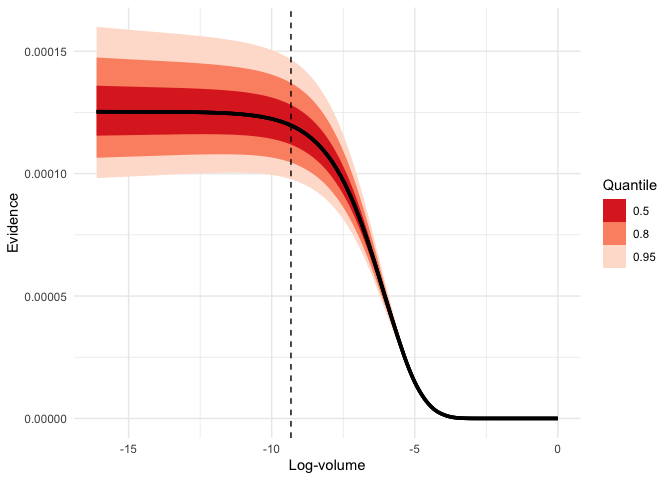
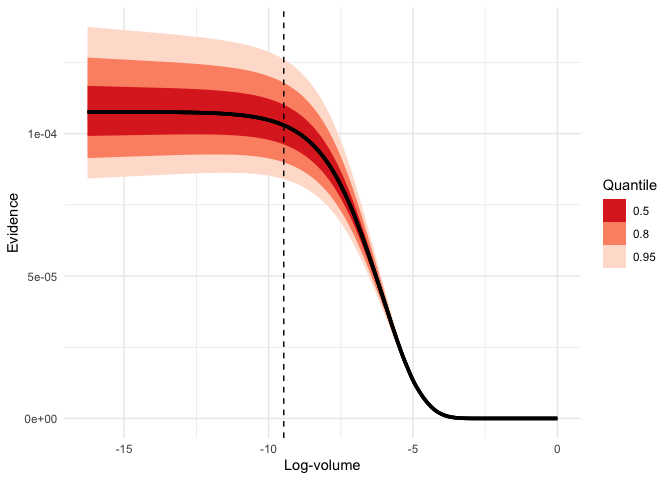
Add CRAN badge.

diff --git a/README.md b/README.md
@@ -8,7 +8,8 @@
 [![R-CMD-check](https://github.com/ropensci/ernest/actions/workflows/R-CMD-check.yaml/badge.svg)](https://github.com/ropensci/ernest/actions/workflows/R-CMD-check.yaml)
 [![codecov](https://codecov.io/gh/ropensci/ernest/graph/badge.svg?token=6HL8L046Y7)](https://app.codecov.io/gh/ropensci/ernest)
 [![](https://badges.ropensci.org/730_status.svg)](https://github.com/ropensci/software-review/issues/730)
-
+[![CRAN
+status](https://www.r-pkg.org/badges/version/ernest)](https://CRAN.R-project.org/package=ernest)
 <!-- badges: end -->
 
 **ernest** is a comprehensive toolkit for [nested
@@ -127,30 +128,30 @@ summary(run)
 #> Summary of nested sampling run:
 #> ── Run Information ─────────────────────────────────────────────────────────────
 #> * No. points: 500
-#> * Iterations: 4663
-#> * Likelihood evals.: 102134
-#> * Log-evidence: -8.9848 (± 0.1147)
-#> * Information: 4.824
+#> * Iterations: 4737
+#> * Likelihood evals.: 103830
+#> * Log-evidence: -9.1368 (± 0.115)
+#> * Information: 4.822
 #> ── Posterior Summary ───────────────────────────────────────────────────────────
 #> # A tibble: 3 × 6
-#>   variable     mean    sd   median   q15   q85
-#>   <chr>       <dbl> <dbl>    <dbl> <dbl> <dbl>
-#> 1 x         0.0179   2.74  0.00257 -1.82  1.93
-#> 2 y         0.00224  2.80  0.0106  -1.87  1.92
-#> 3 z        -0.0329   2.77 -0.00719 -1.91  1.96
+#>   variable   mean    sd    median   q15   q85
+#>   <chr>     <dbl> <dbl>     <dbl> <dbl> <dbl>
+#> 1 x        0.0233  2.76 -0.000841 -1.96  2.02
+#> 2 y        0.0254  2.78 -0.000344 -1.90  1.96
+#> 3 z        0.0110  2.79 -0.00460  -1.89  1.92
 #> ── Maximum Likelihood Estimate (MLE) ───────────────────────────────────────────
-#> * Log-likelihood: -2.6812
-#> * Original parameters: -0.013, 0.0448, and 0.0196
+#> * Log-likelihood: -2.6829
+#> * Original parameters: 0.0149, 0.0188, and -0.0715
 plot(run, which = "evidence")
 ```
 
-<img src="man/figures/README-unnamed-chunk-2-1.png" width="100%" />
+<img src="man/figures/README-unnamed-chunk-2-1.png" alt="" width="100%" />
 
 ``` r
 visualize(run, x, .which = "trace")
 ```
 
-<img src="man/figures/README-unnamed-chunk-2-2.png" width="100%" />
+<img src="man/figures/README-unnamed-chunk-2-2.png" alt="" width="100%" />
 
 For advanced usage, including custom priors and hierarchical models, see
 the package vignettes.
